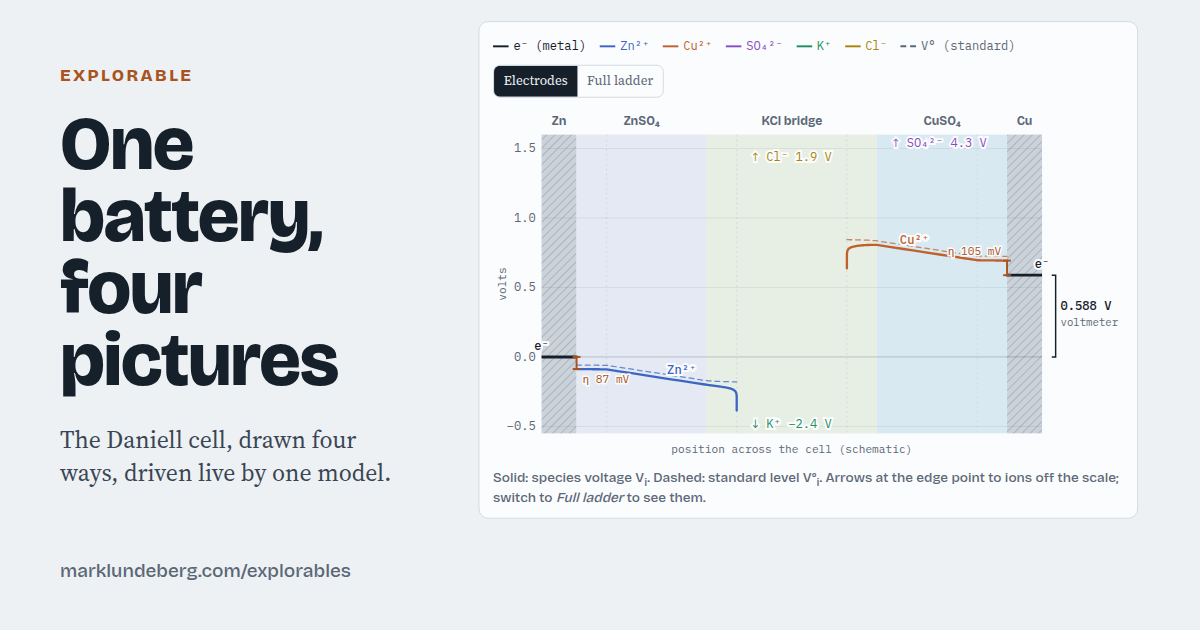
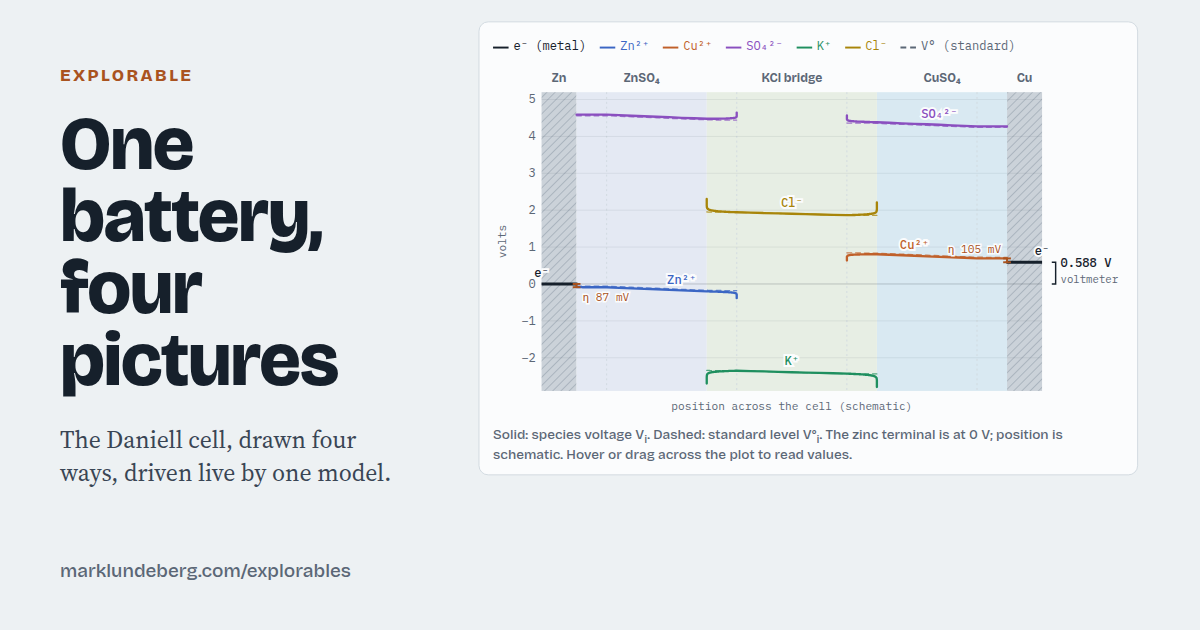
Daniell explorable: refresh social card (full ladder), add twitter:image + size tags

diff --git a/src/explorables/daniell-cell/index.html b/src/explorables/daniell-cell/index.html
@@ -11,9 +11,13 @@
 <meta property="og:description" content="The Daniell cell drawn four ways: particles, the textbook ledger, electron levels, and species voltages, all driven live by one model.">
 <meta property="og:url" content="https://marklundeberg.com/explorables/daniell-cell/">
 <meta property="og:image" content="https://marklundeberg.com/explorables/daniell-cell/og.png">
+<meta property="og:image:width" content="1200">
+<meta property="og:image:height" content="630">
+<meta property="og:image:alt" content="One battery, four pictures: a species-voltage diagram of the Daniell cell">
 <meta property="og:site_name" content="Mark Lundeberg">
 <meta name="twitter:card" content="summary_large_image">
 <meta name="twitter:site" content="@MarkLundeberg">
+<meta name="twitter:image" content="https://marklundeberg.com/explorables/daniell-cell/og.png">
 <link rel="icon" href="/img/favicon.ico">
 <link rel="preconnect" href="https://fonts.googleapis.com">
 <link rel="preconnect" href="https://fonts.gstatic.com" crossorigin>
